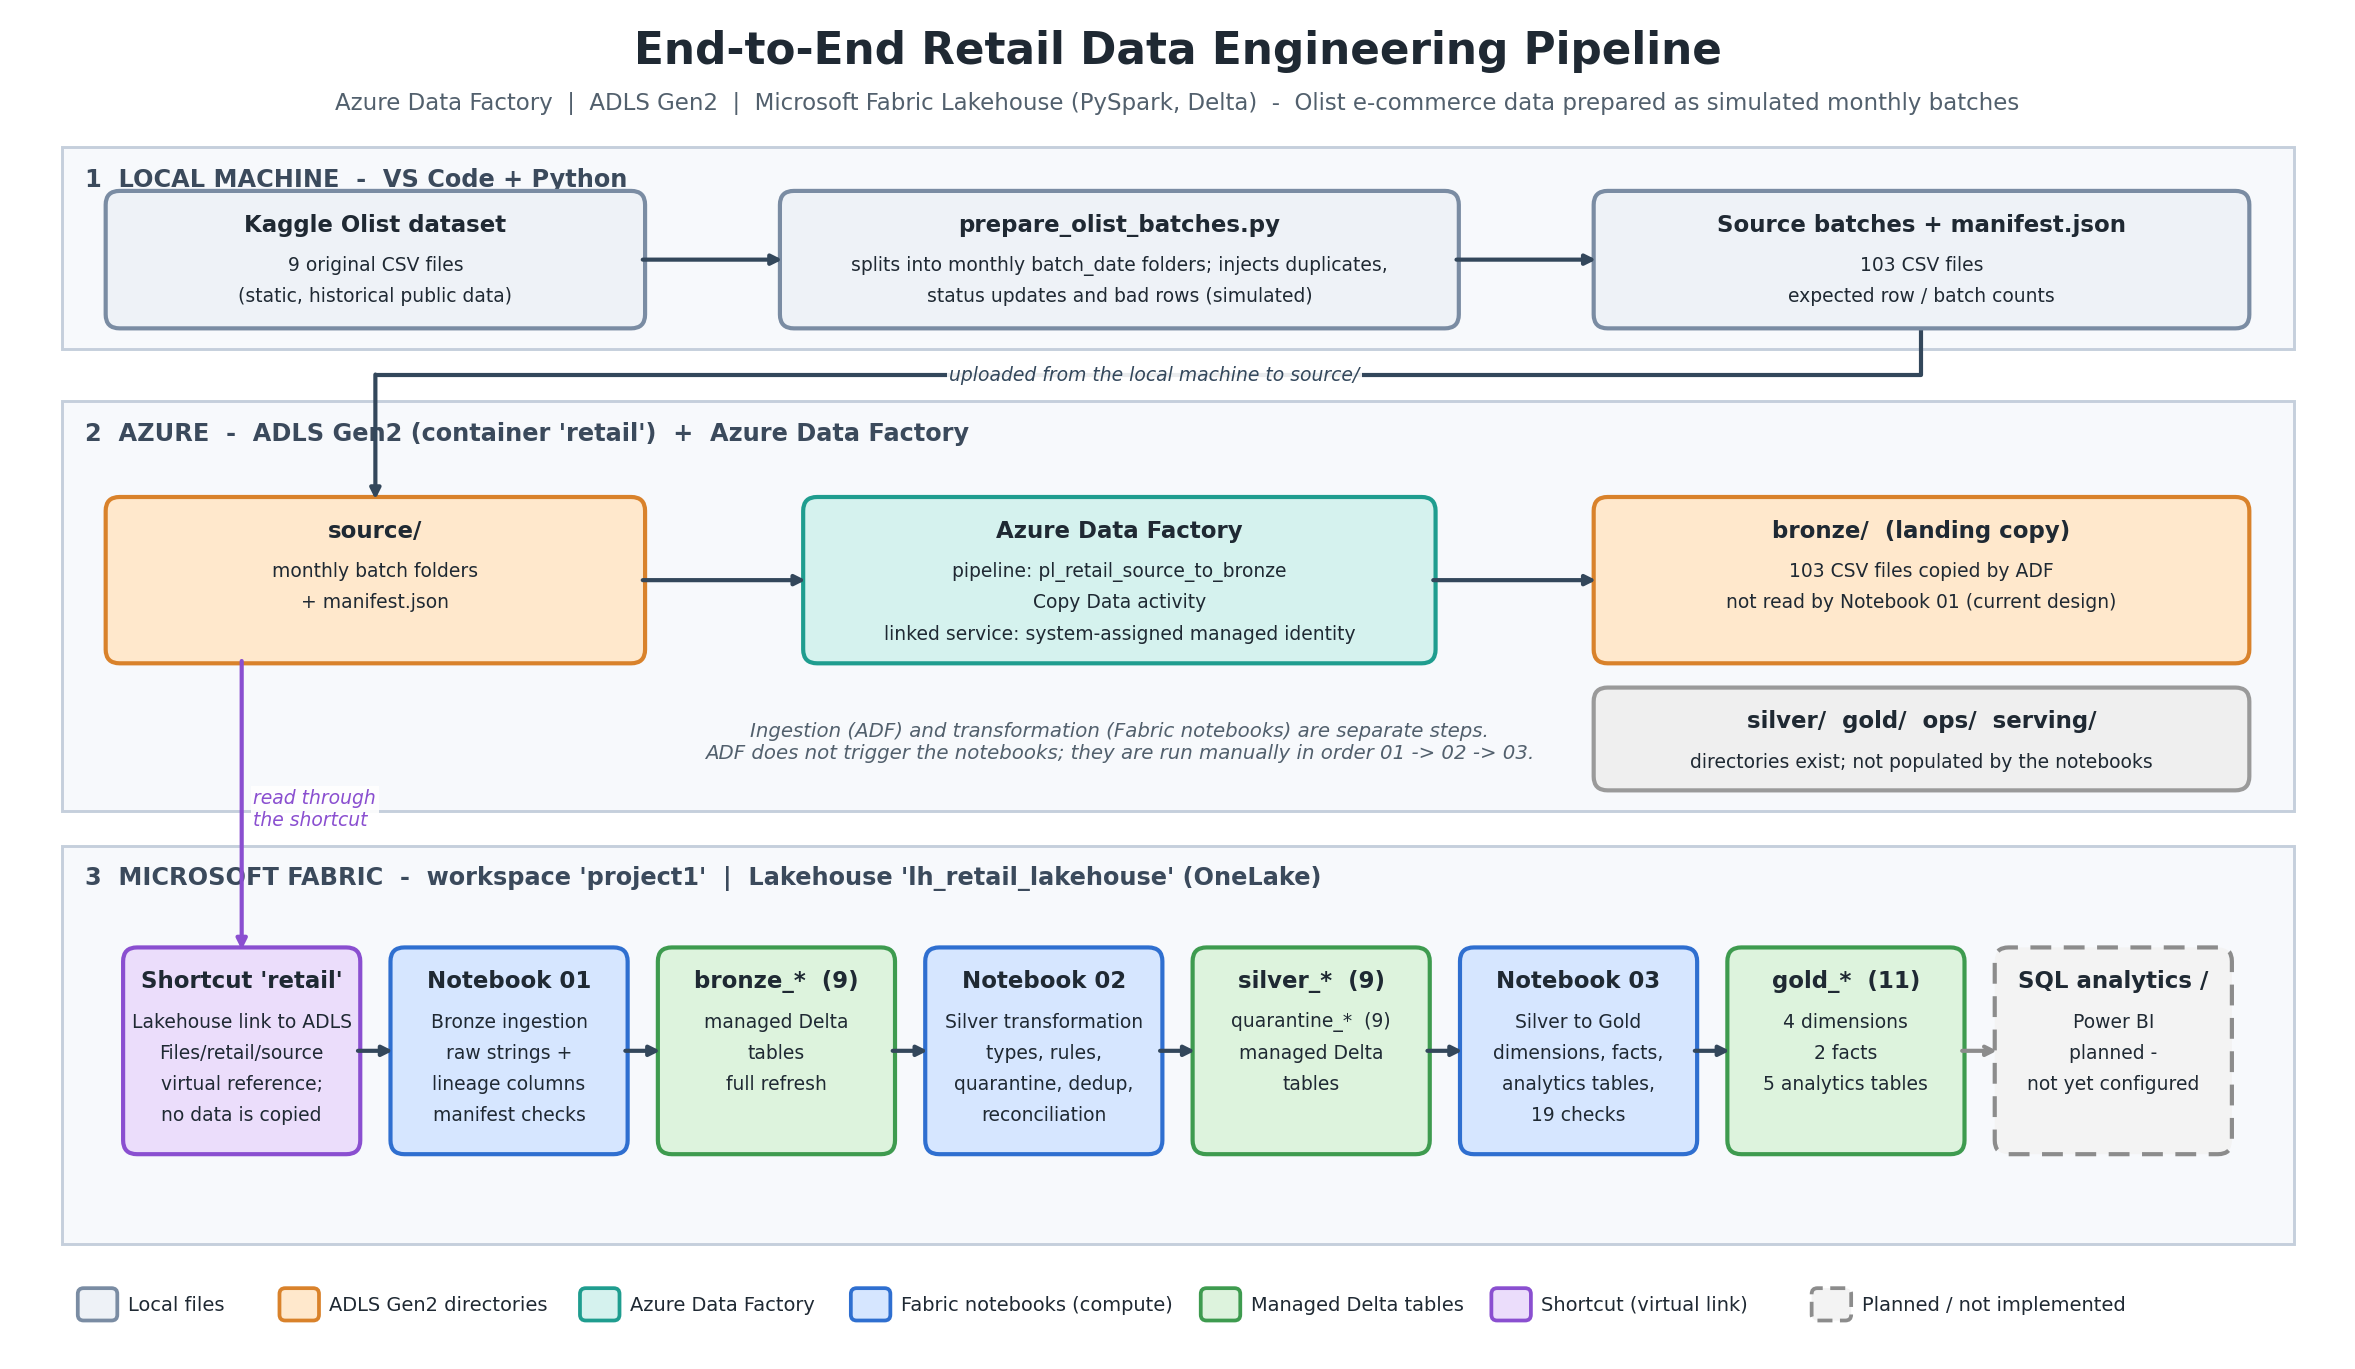
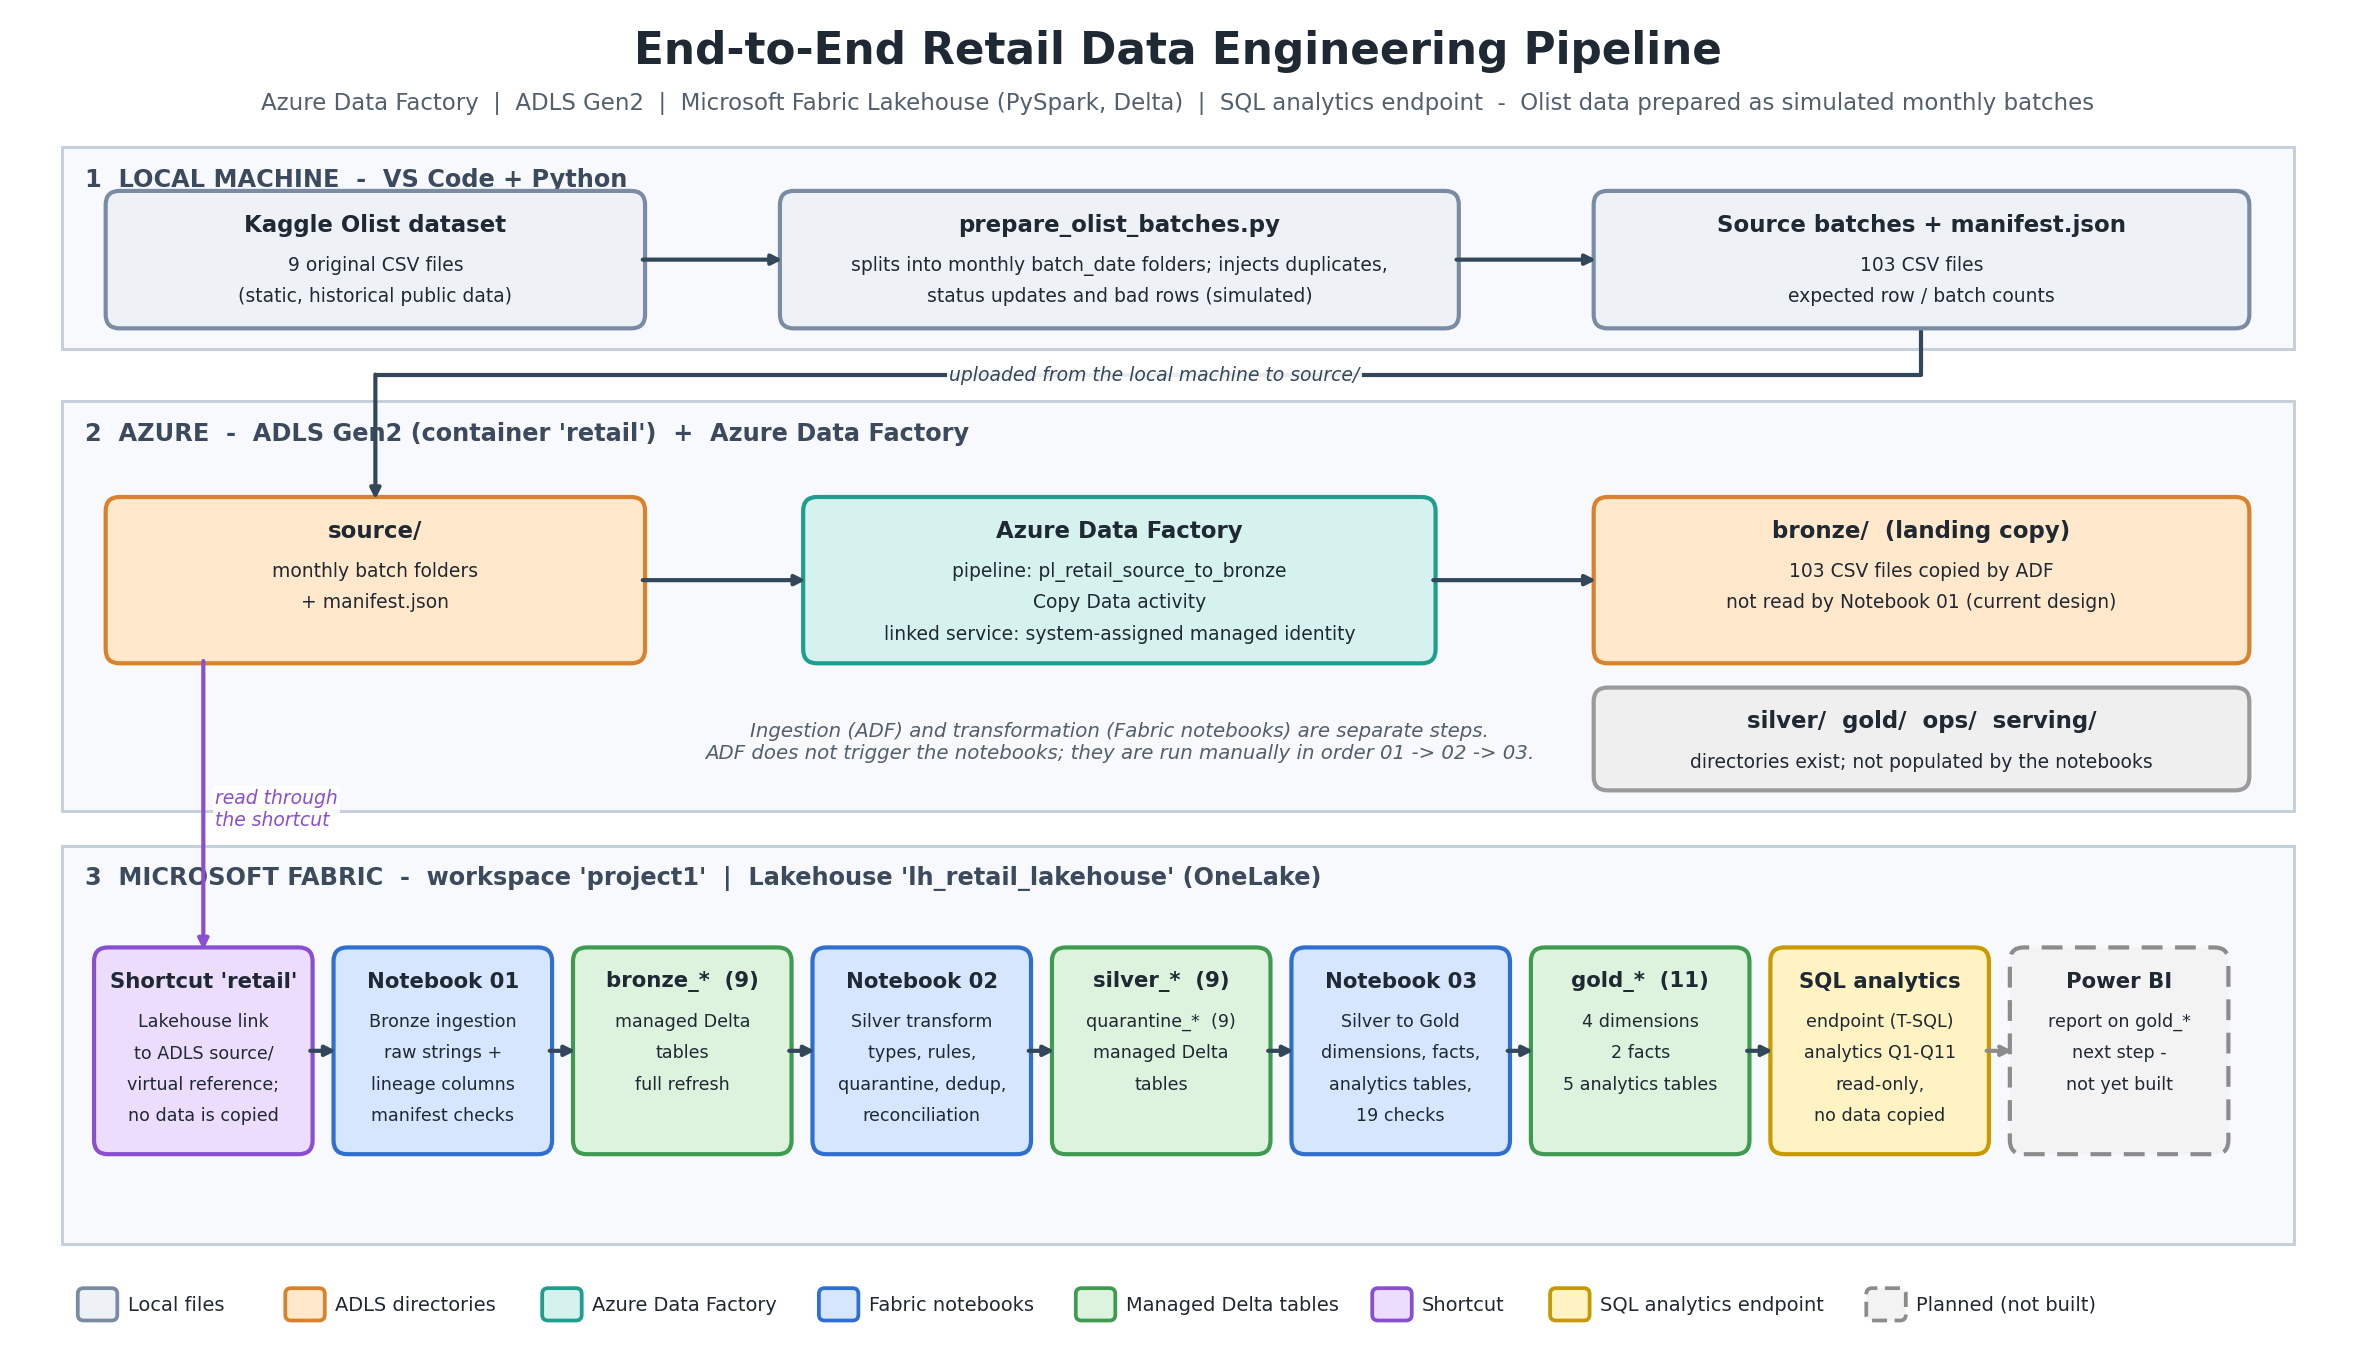
Add files via upload

diff --git a/make_diagram.py b/make_diagram.py
@@ -1,0 +1,92 @@
+"""Generates architecture.png and architecture.svg (run: python make_diagram.py). Edit the coordinates/text below to change the diagram."""
+import matplotlib
+matplotlib.use("Agg")
+import matplotlib.pyplot as plt
+from matplotlib.patches import FancyBboxPatch, Rectangle
+
+W, H = 20, 11.6
+fig, ax = plt.subplots(figsize=(W, H)); ax.set_xlim(0, W); ax.set_ylim(0, H); ax.axis("off")
+fig.patch.set_facecolor("white")
+
+C = dict(local=("#EEF2F7", "#7A8CA3"), storage=("#FFE8CC", "#D9822B"), adf=("#D5F2EE", "#1F9D8F"),
+         compute=("#D6E6FF", "#2F6FD0"), table=("#DDF3DD", "#3E9B4F"), link=("#EBDDFB", "#8A4FD0"),
+         planned=("#F3F3F3", "#8C8C8C"), grey=("#EFEFEF", "#9A9A9A"), sql=("#FFF3C4", "#C99A00"))
+INK = "#1F2933"
+
+def band(x, y, w, h, label, fc="#F7F9FC", ec="#C5CFDC"):
+    ax.add_patch(Rectangle((x, y), w, h, fc=fc, ec=ec, lw=1.4, zorder=0))
+    ax.text(x + 0.2, y + h - 0.28, label, fontsize=11.5, fontweight="bold", color="#3B4A5C", va="center", zorder=2)
+
+def box(x, y, w, h, title, lines, kind, dashed=False, ts=11, ls=9):
+    fc, ec = C[kind]
+    ax.add_patch(FancyBboxPatch((x, y), w, h, boxstyle="round,pad=0.02,rounding_size=0.12", fc=fc, ec=ec, lw=2,
+                                ls=(0, (5, 3)) if dashed else "-", zorder=2))
+    ax.text(x + w / 2, y + h - 0.27, title, ha="center", va="center", fontsize=ts, fontweight="bold", color=INK, zorder=3)
+    for i, t in enumerate(lines):
+        ax.text(x + w / 2, y + h - 0.62 - i * 0.27, t, ha="center", va="center", fontsize=ls, color=INK, zorder=3)
+
+def route(pts, color="#33475B", dashed=False, label=None, lpos=None, lalign="center"):
+    xs, ys = zip(*pts)
+    ax.plot(xs[:-1], ys[:-1], color=color, lw=2, ls=(0, (5, 3)) if dashed else "-", zorder=1, solid_capstyle="butt")
+    ax.annotate("", xy=pts[-1], xytext=pts[-2], arrowprops=dict(arrowstyle="-|>", color=color, lw=2,
+                ls=(0, (5, 3)) if dashed else "-", shrinkA=0, shrinkB=0), zorder=4)
+    if label:
+        ax.text(*lpos, label, fontsize=9, color=color, ha=lalign, va="center", style="italic", zorder=5,
+                bbox=dict(fc="white", ec="none", pad=1.2, alpha=0.9))
+
+# ---------- title ----------
+ax.text(W / 2, 11.18, "End-to-End Retail Data Engineering Pipeline", ha="center", fontsize=21, fontweight="bold", color=INK)
+ax.text(W / 2, 10.78, "Azure Data Factory  |  ADLS Gen2  |  Microsoft Fabric Lakehouse (PySpark, Delta)  |  SQL analytics endpoint  -  Olist data prepared as simulated monthly batches",
+        ha="center", fontsize=11, color="#52606D")
+
+# ---------- band A: local ----------
+band(0.4, 8.7, 19.2, 1.75, "1  LOCAL MACHINE  -  VS Code + Python")
+box(0.8, 8.9, 4.6, 1.15, "Kaggle Olist dataset", ["9 original CSV files", "(static, historical public data)"], "local")
+box(6.6, 8.9, 5.8, 1.15, "prepare_olist_batches.py", ["splits into monthly batch_date folders; injects duplicates,", "status updates and bad rows (simulated)"], "local")
+box(13.6, 8.9, 5.6, 1.15, "Source batches + manifest.json", ["103 CSV files", "expected row / batch counts"], "local")
+route([(5.4, 9.475), (6.6, 9.475)]); route([(12.4, 9.475), (13.6, 9.475)])
+
+# ---------- band B: Azure storage + ADF ----------
+band(0.4, 4.7, 19.2, 3.55, "2  AZURE  -  ADLS Gen2 (container 'retail')  +  Azure Data Factory")
+box(0.8, 6.0, 4.6, 1.4, "source/", ["monthly batch folders", "+ manifest.json"], "storage")
+box(6.8, 6.0, 5.4, 1.4, "Azure Data Factory", ["pipeline: pl_retail_source_to_bronze", "Copy Data activity", "linked service: system-assigned managed identity"], "adf")
+box(13.6, 6.0, 5.6, 1.4, "bronze/  (landing copy)", ["103 CSV files copied by ADF", "not read by Notebook 01 (current design)"], "storage")
+box(13.6, 4.9, 5.6, 0.85, "silver/  gold/  ops/  serving/", ["directories exist; not populated by the notebooks"], "grey")
+route([(5.4, 6.7), (6.8, 6.7)]); route([(12.2, 6.7), (13.6, 6.7)])
+route([(16.4, 8.9), (16.4, 8.48), (3.1, 8.48), (3.1, 7.4)], label="uploaded from the local machine to source/", lpos=(9.8, 8.48))
+ax.text(9.5, 5.3, "Ingestion (ADF) and transformation (Fabric notebooks) are separate steps.\nADF does not trigger the notebooks; they are run manually in order 01 -> 02 -> 03.",
+        ha="center", va="center", fontsize=9.5, style="italic", color="#52606D")
+
+# ---------- band C: Fabric ----------
+band(0.4, 0.95, 19.2, 3.45, "3  MICROSOFT FABRIC  -  workspace 'project1'  |  Lakehouse 'lh_retail_lakehouse' (OneLake)")
+x0, step, w, y, h = 0.7, 2.06, 1.84, 1.75, 1.75
+X = [x0 + i * step for i in range(9)]
+T = dict(ts=10.2, ls=8.4)
+box(X[0], y, w, h, "Shortcut 'retail'", ["Lakehouse link", "to ADLS source/", "virtual reference;", "no data is copied"], "link", **T)
+box(X[1], y, w, h, "Notebook 01", ["Bronze ingestion", "raw strings +", "lineage columns", "manifest checks"], "compute", **T)
+box(X[2], y, w, h, "bronze_*  (9)", ["managed Delta", "tables", "full refresh"], "table", **T)
+box(X[3], y, w, h, "Notebook 02", ["Silver transform", "types, rules,", "quarantine, dedup,", "reconciliation"], "compute", **T)
+box(X[4], y, w, h, "silver_*  (9)", ["quarantine_*  (9)", "managed Delta", "tables"], "table", **T)
+box(X[5], y, w, h, "Notebook 03", ["Silver to Gold", "dimensions, facts,", "analytics tables,", "19 checks"], "compute", **T)
+box(X[6], y, w, h, "gold_*  (11)", ["4 dimensions", "2 facts", "5 analytics tables"], "table", **T)
+box(X[7], y, w, h, "SQL analytics", ["endpoint (T-SQL)", "analytics Q1-Q11", "read-only,", "no data copied"], "sql", **T)
+box(X[8], y, w, h, "Power BI", ["report on gold_*", "next step -", "not yet built"], "planned", dashed=True, **T)
+for i in range(8):
+    nxt_planned = (i == 7)
+    route([(X[i] + w, y + h / 2), (X[i + 1], y + h / 2)], dashed=nxt_planned, color="#8C8C8C" if nxt_planned else "#33475B")
+route([(1.62, 6.0), (1.62, 3.5)], color="#8A4FD0", label="read through\nthe shortcut", lpos=(1.72, 4.72), lalign="left")
+
+# ---------- legend ----------
+items = [("Local files", "local", False), ("ADLS directories", "storage", False), ("Azure Data Factory", "adf", False),
+         ("Fabric notebooks", "compute", False), ("Managed Delta tables", "table", False), ("Shortcut", "link", False),
+         ("SQL analytics endpoint", "sql", False), ("Planned (not built)", "planned", True)]
+lx = 0.55
+for name, kind, dashed in items:
+    fc, ec = C[kind]
+    ax.add_patch(FancyBboxPatch((lx, 0.3), 0.32, 0.26, boxstyle="round,pad=0.01,rounding_size=0.05", fc=fc, ec=ec, lw=1.8,
+                                ls=(0, (4, 2)) if dashed else "-"))
+    ax.text(lx + 0.42, 0.43, name, fontsize=9.3, va="center", color=INK)
+    lx += 0.55 + len(name) * 0.085 + 0.3
+fig.savefig("architecture.png", dpi=150, bbox_inches="tight", facecolor="white")
+fig.savefig("architecture.svg", bbox_inches="tight", facecolor="white")
+print("saved architecture.png / architecture.svg")
